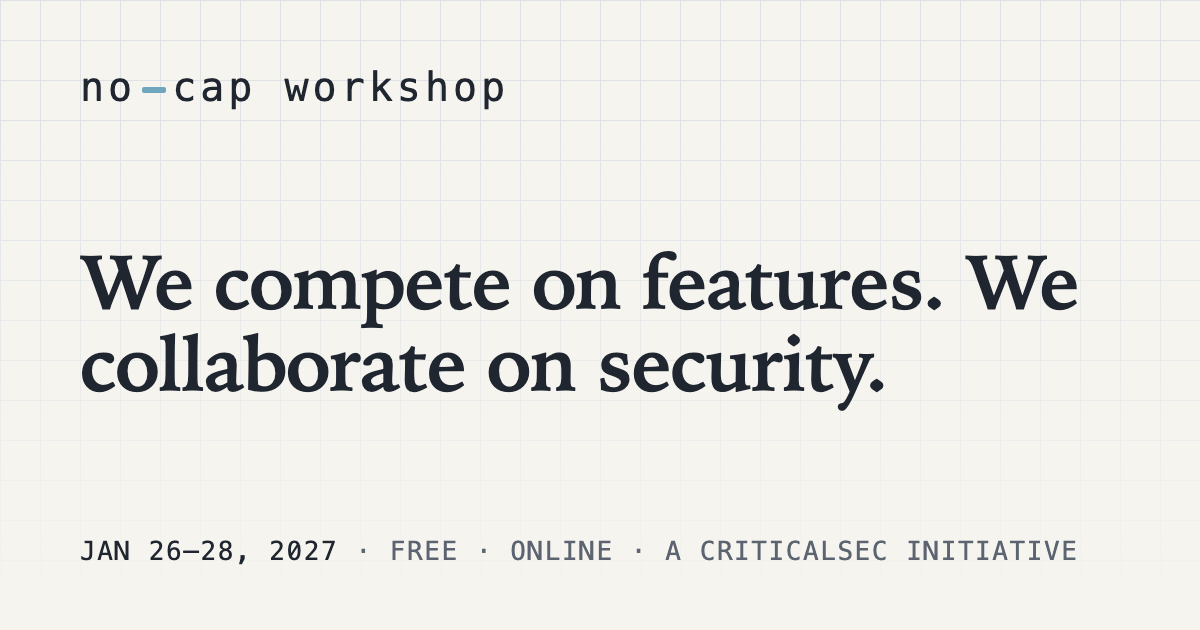
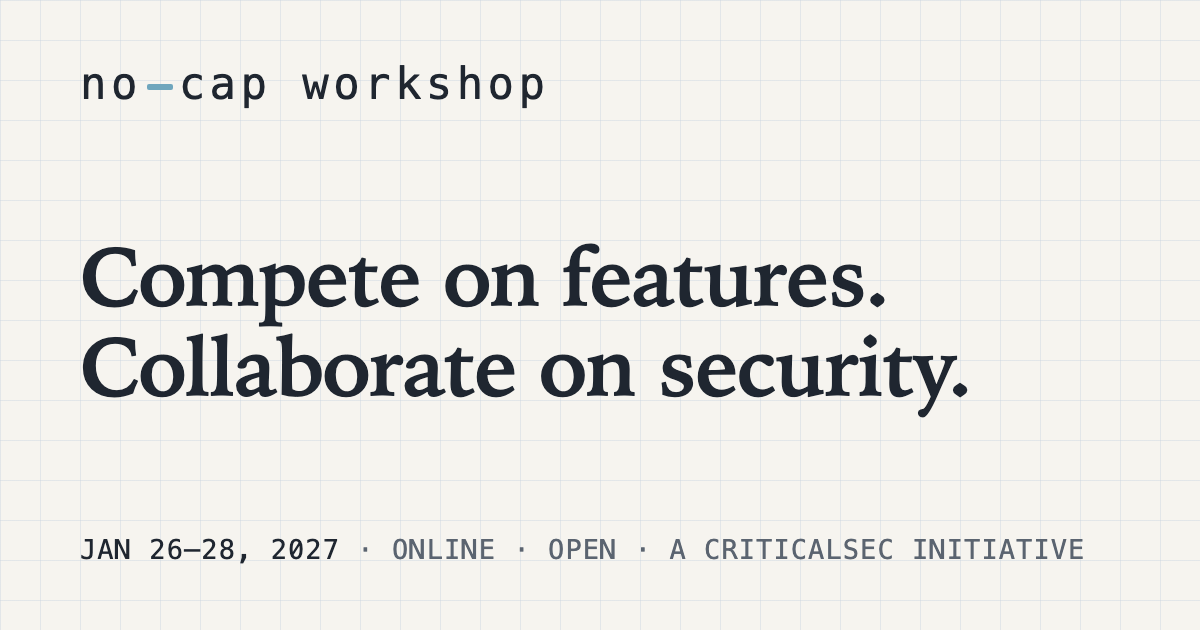
Fix sponsor links, drop redundant Open labels, refresh share image, add Why now
Share image now reads Online / Open with the current headline.

Claude-Session: https://claude.ai/code/session_01AU5JgG5DhjbP6cVzbW1Vvt

diff --git a/layouts/home.html b/layouts/home.html
@@ -142,8 +142,6 @@
               <li><a href="{{ .url }}">{{ with .logo }}{{ with resources.Get . }}<img src="{{ .RelPermalink }}" alt="{{ $name }}">{{ end }}{{ else }}{{ $name }}{{ end }}</a></li>
               {{ end }}
             </ul>
-            {{ else }}
-            <p class="tba">Open</p>
             {{ end }}
           </div>
           {{ end }}

diff --git a/content/sponsors.md b/content/sponsors.md
@@ -5,6 +5,10 @@ layout: sponsors
 ---
 The No-Cap Workshop is three days of free, hands-on, practitioner-led sessions for teams meeting FedRAMP's VDR requirements. Sponsors are why it is free for everyone, and why every session stays online afterward.
 
+## Why now
+
+FedRAMP's VDR requirements become mandatory on December 7, 2026. Offerings under a Corrective Action Plan are at risk of having their FedRAMP certification revoked if they are not compliant by March 7, 2027. Every provider in the FedRAMP community is working on this at the same time, and many are struggling to understand, implement, and maintain it.
+
 ## Who is in the room
 
 We're aiming for nationwide participation from cloud service providers across the FedRAMP community, and from the teams inside them: engineering, compliance, security, and leadership. These are the people working on this exact problem, on a deadline, and looking for what works.

diff --git a/content/faq.md b/content/faq.md
@@ -45,7 +45,7 @@ See the [leads page](/leads/). To offer private sessions of your own, see [Priva
 
 ## How do I sponsor?
 
-See the [sponsor section](/#sponsors) on the home page and write to the address in the footer.
+See the [sponsor page](/sponsors/) for tiers, benefits, and terms, then write to the address in the footer.
 
 ## Is this affiliated with FedRAMP or the government?
 

diff --git a/content/why.md b/content/why.md
@@ -29,4 +29,4 @@ Nothing here is advice from FedRAMP or any agency, although if you're with eithe
 ## Get involved
 
 Join the announcement list on the [home page](/), [lead a session](/leads/), or
-[sponsor](/#sponsors). Questions go to the address in the footer.
+[sponsor](/sponsors/). Questions go to the address in the footer.
